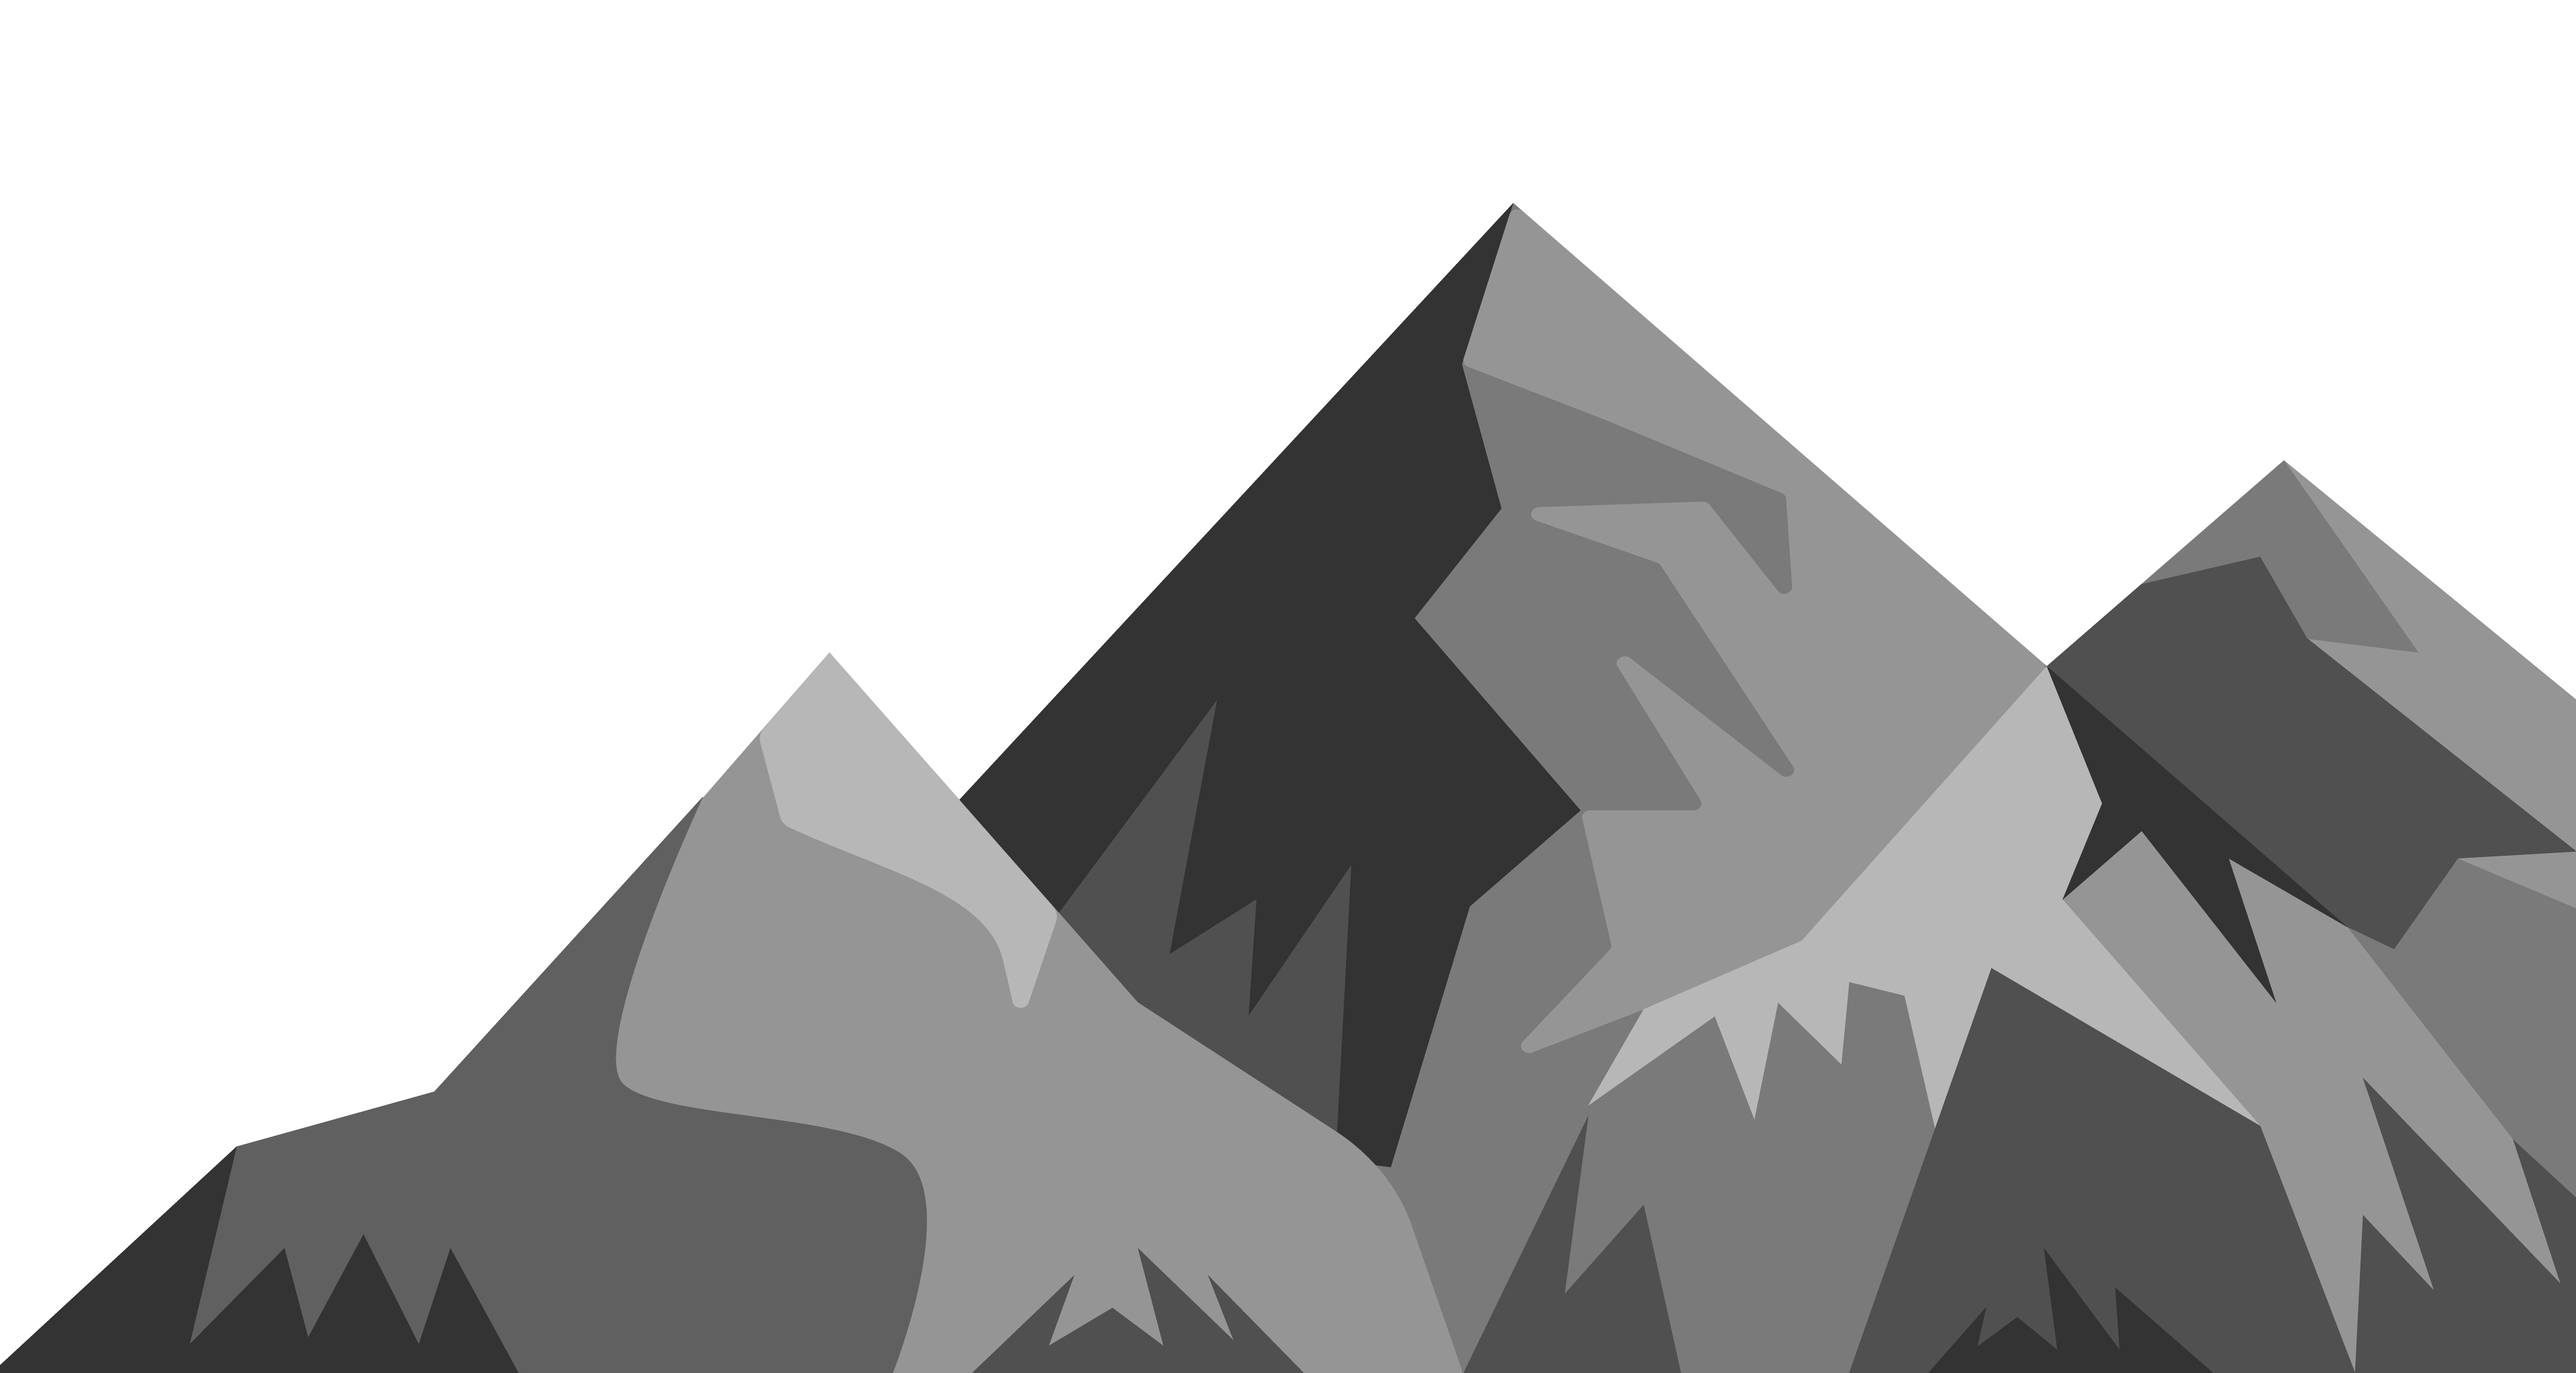
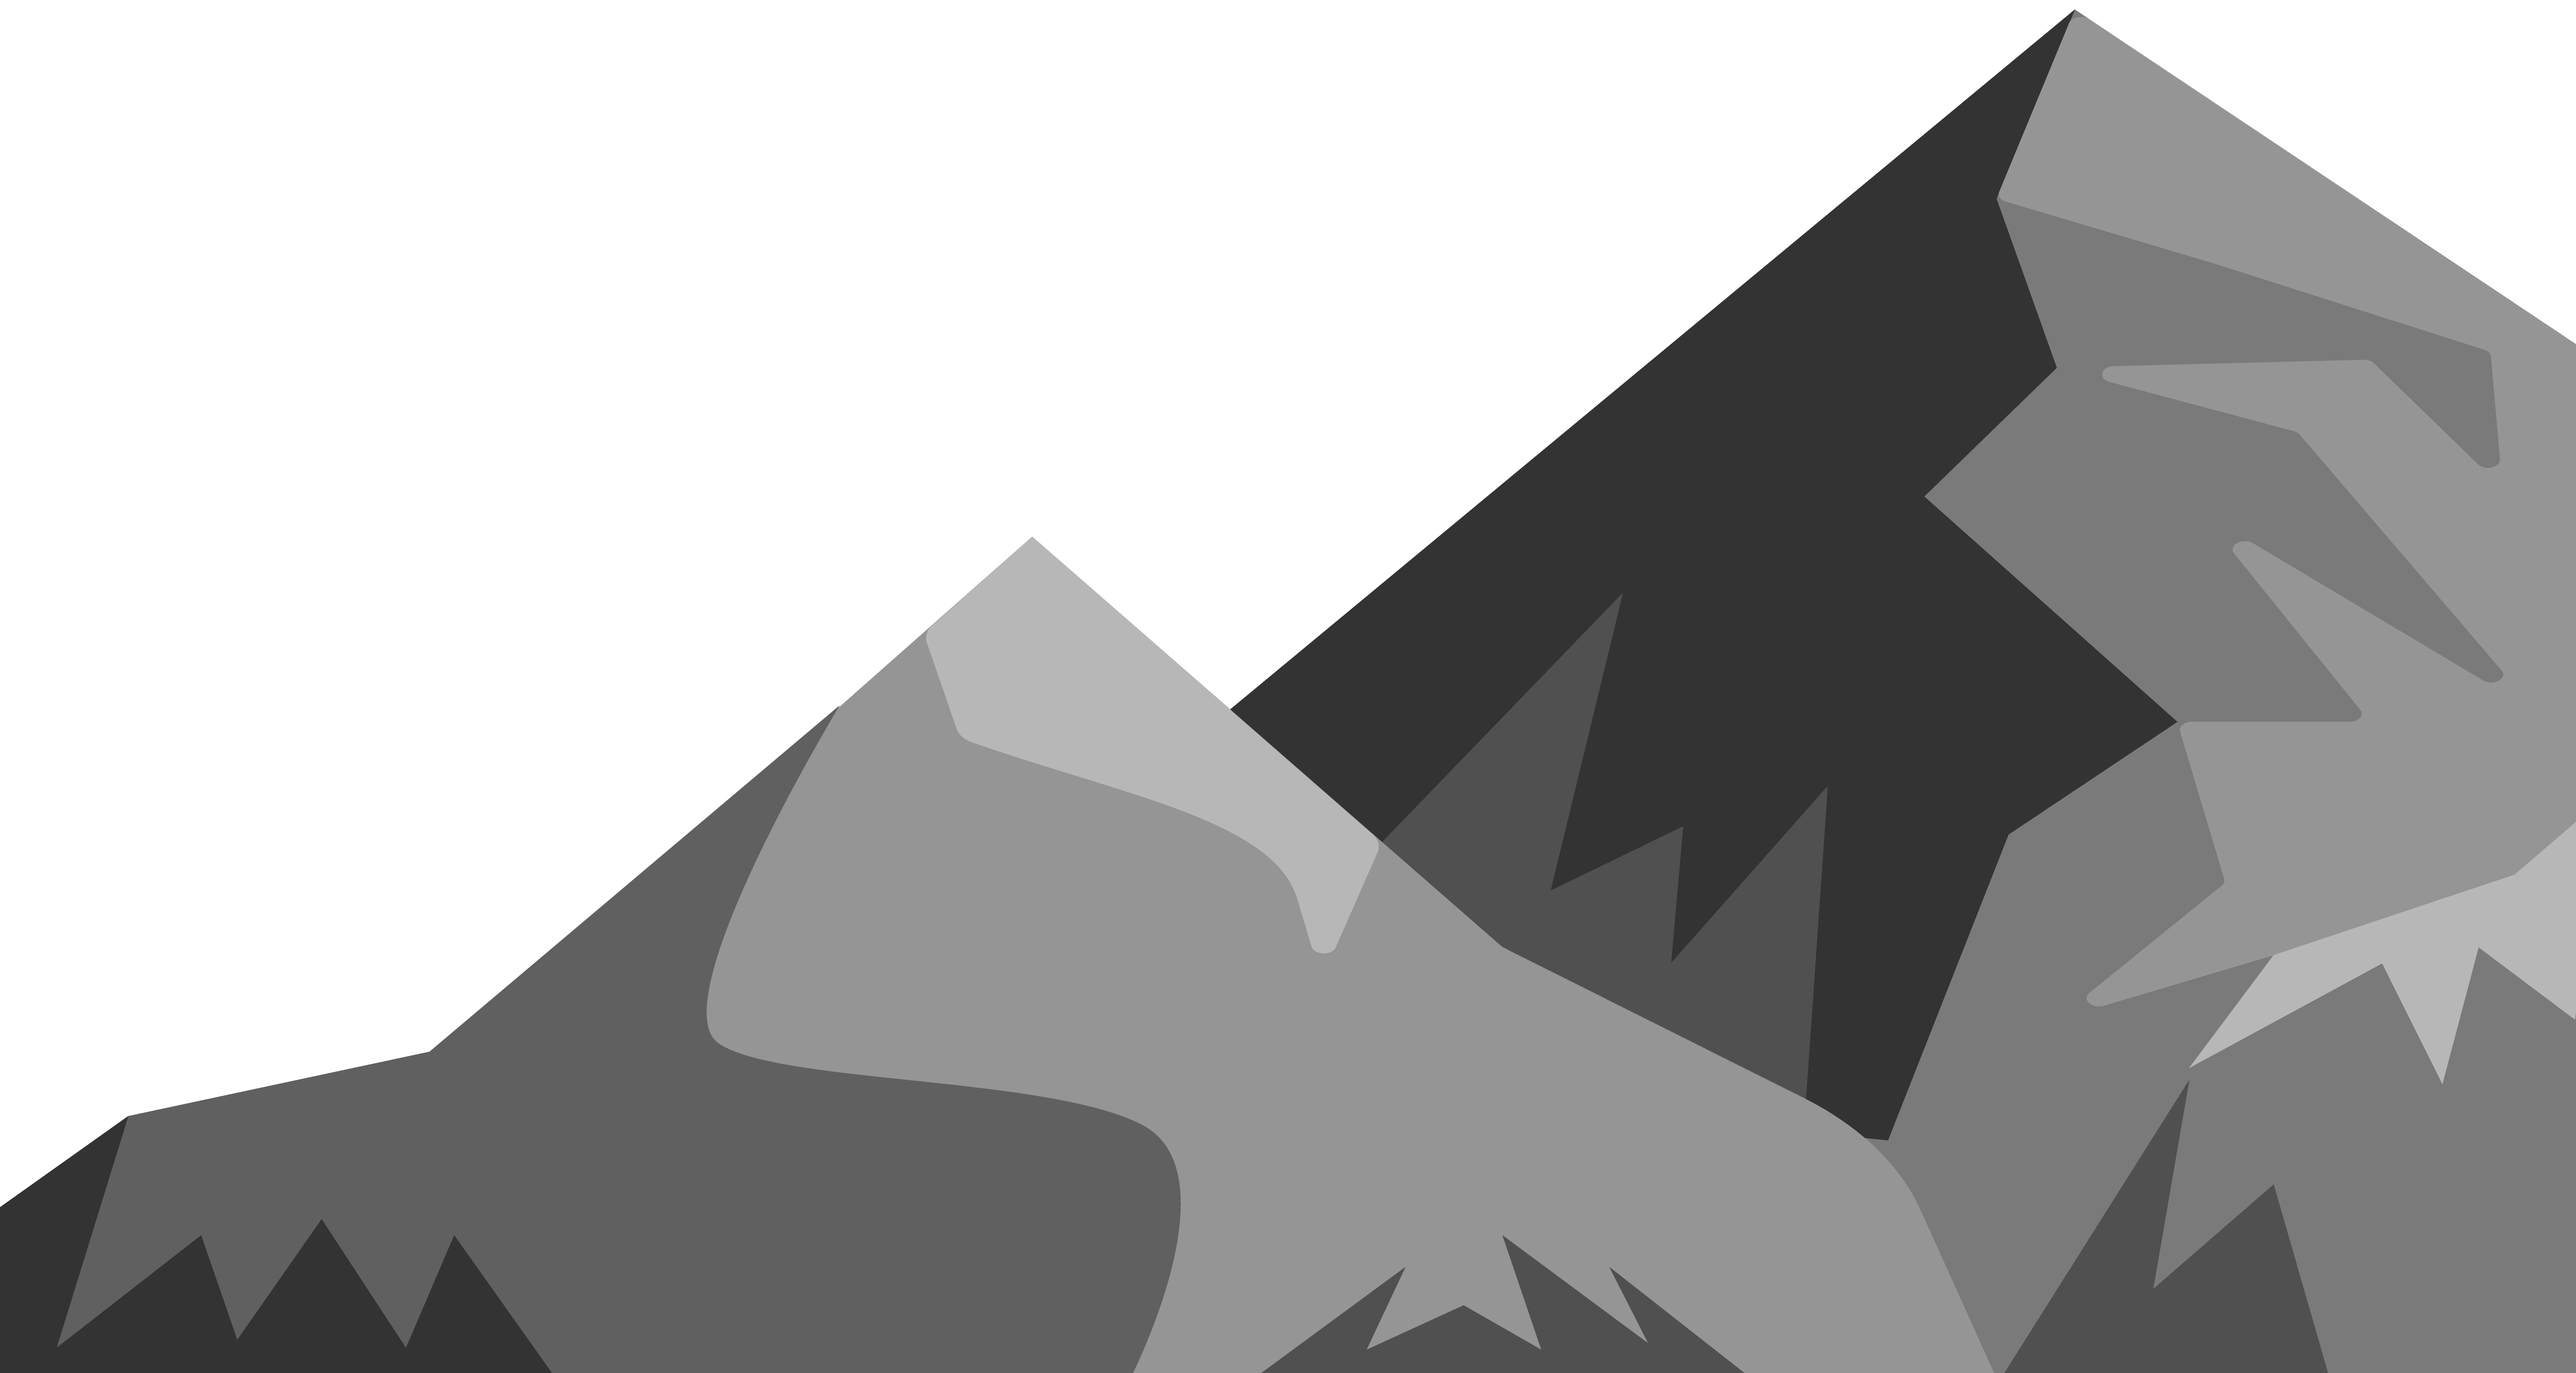
Update
Added Checkbox and Linechart components.

diff --git a/react-app/src/App.js b/react-app/src/App.js
@@ -1,40 +1,39 @@
 import React from 'react';
 import './App.css';
+import Checkbox from './Components/Checkbox';
+import Linechart from './Components/Linechart';
 import * as d3 from 'd3';
 
 class App extends React.Component {
-	state = {
-		race: []
-	}
-
-	handleChange = (e) => {
-		console.log(e.target.id)
-		if(e.target.id.checked == true) {
-			console.log("YES")
+	//In the state below we can import the data that we collected and depending on if the checkbox state is "checked" is true we can display the data
+	state = [
+		{
+			race: "WHITE",
+		},		
+		{
+			race: "BLACK",
+		},
+		{
+			race: "HISPANIC",
 		}
-
-		this.setState({
-			race: e.target.value
-		});
-	}
+	]	
 
 	render() {
+		const people = this.state;
+	
 		return (
 			<div className="main">
 				<div className="container">
 					<h1>HOW BIG IS YOUR MOUNTAIN?</h1>
 					<div className="selection">
-						<form onChange={this.handleChange}>
-							<input type="checkbox" id="white" name="white" value="white"></input>
-							<label htmlFor="white">WHITE</label>
-							<input type="checkbox" id="black" name="black" value="black"></input>
-							<label htmlFor="black">BLACK</label>
-							<input type="checkbox" id="hispanic" name="hispanic" value="hispanic"></input>
-							<label htmlFor="hispanic">HISPANIC</label>
-						</form>
+						{people.map((item, index) =>
+							<Checkbox name={item.race} key={index}></Checkbox>
+						)}							
 					</div>
 				</div>
-				<div className="container" ref="canvas"></div>
+				<div className="container" id="mountain">
+					<Linechart></Linechart>
+				</div>
 			</div>
 		);
 	}

diff --git a/react-app/src/Components/Linechart.js b/react-app/src/Components/Linechart.js
@@ -1,0 +1,38 @@
+import React from 'react';
+import * as d3 from 'd3'
+
+class Linechart extends React.Component {
+    //Below for data I think we need to import the data from the app component
+
+    componentDidMount() {
+        const data = []
+        this.drawBarChart(data)        
+    }
+
+    drawBarChart(data) {
+        const mountain = document.querySelector("#mountain");
+
+        const margin = {top: 50, right: 50, bottom: 50, left: 50},
+              width = mountain.clientWidth,
+              height = mountain.clientHeight
+
+        const svgCanvas = d3.select(this.refs.canvas)
+            .append("svg")
+            .attr("width", width + margin.left + margin.right)
+            .attr("height", height + margin.top + margin.bottom)
+            //We can remove the border below during presentation I just added it so we can see where the graph is at
+            .attr("style", "border:1px solid black")
+            .append("g")
+            .attr("transform", "translate(" + margin.left + "," + margin.top + ")")
+
+    }
+
+    render() { 
+
+        return (
+            <div ref="canvas"></div> 
+        )
+    }
+}
+
+export default Linechart;

diff --git a/react-app/src/App.css b/react-app/src/App.css
@@ -11,9 +11,9 @@
   width: 100%;
   max-height: 100%;
   max-width: 100%;
-  background-image: url('./Images/Mountain-02.png');
+  background-image: url('./Images/Mountain-01.png');
   background-position: center;
-  background-size: cover;
+  background-size: 100% 100%;
   background-repeat: no-repeat;
 }
 
@@ -22,9 +22,23 @@ h1 {
   text-align: center;
 }
 
+input[type="checkbox"] + label[for^=WHITE] {
+  color: #E71D36;
+}
+
+input[type="checkbox"] + label[for^=BLACK] {
+  color: #2EC4B6;
+}
+
+input[type="checkbox"] + label[for^=HISPANIC] {
+  color: #FF9F1C;
+}
+
 label {
   text-align: center;
-  padding: 15px
+  padding-left: 5px;
+  padding-right: 25px;
+  font-weight: bold;
 }
 
 .main {
@@ -50,7 +64,7 @@ select{
 
 .selection {
   display: flex;
-  flex-direction: column;
+  justify-content: center;
   align-items: center;
 }
 

diff --git a/react-app/src/Components/Checkbox.js b/react-app/src/Components/Checkbox.js
@@ -1,0 +1,25 @@
+import React from 'react';
+
+class Checkbox extends React.Component {
+	state = {
+        checked: false
+    }
+
+
+	handleChange = () => {
+        this.setState({
+            checked: !this.state.checked
+        })
+	}
+
+	render() {
+		return (
+            <React.Fragment>
+                <input type="checkbox" id={this.props.name} name={this.props.name} value={this.props.name} defaultChecked={this.state.checked} onChange={this.handleChange}></input>
+                <label htmlFor={this.props.name}>{this.props.name}</label>
+            </React.Fragment>
+		);
+	}
+}
+
+export default Checkbox;
